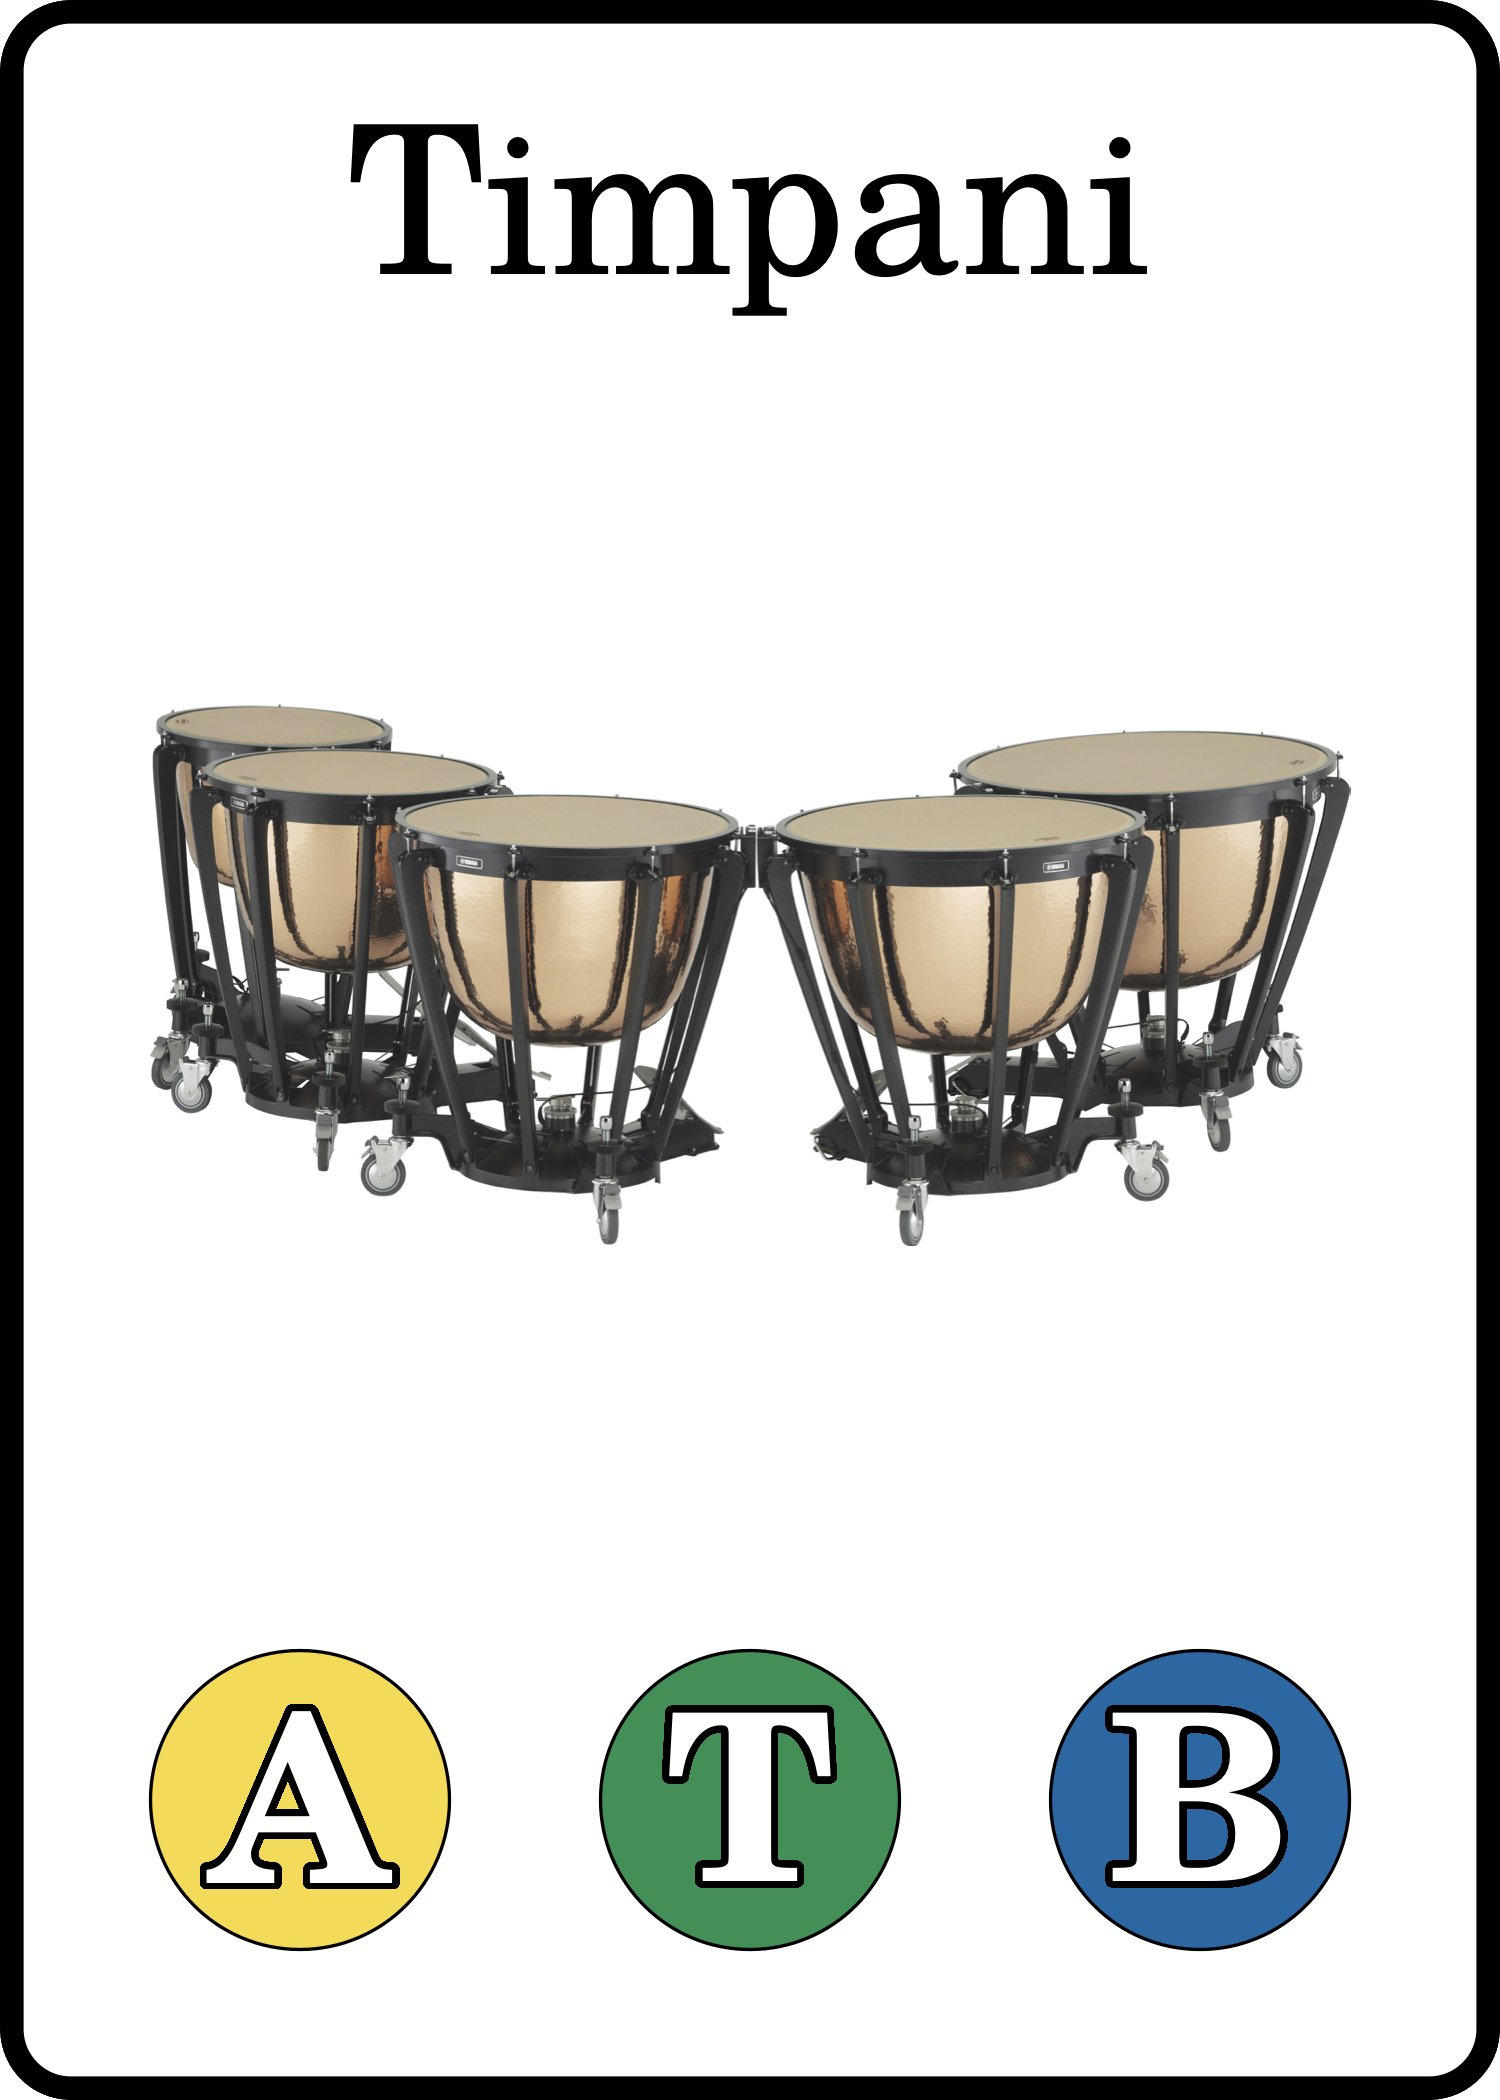
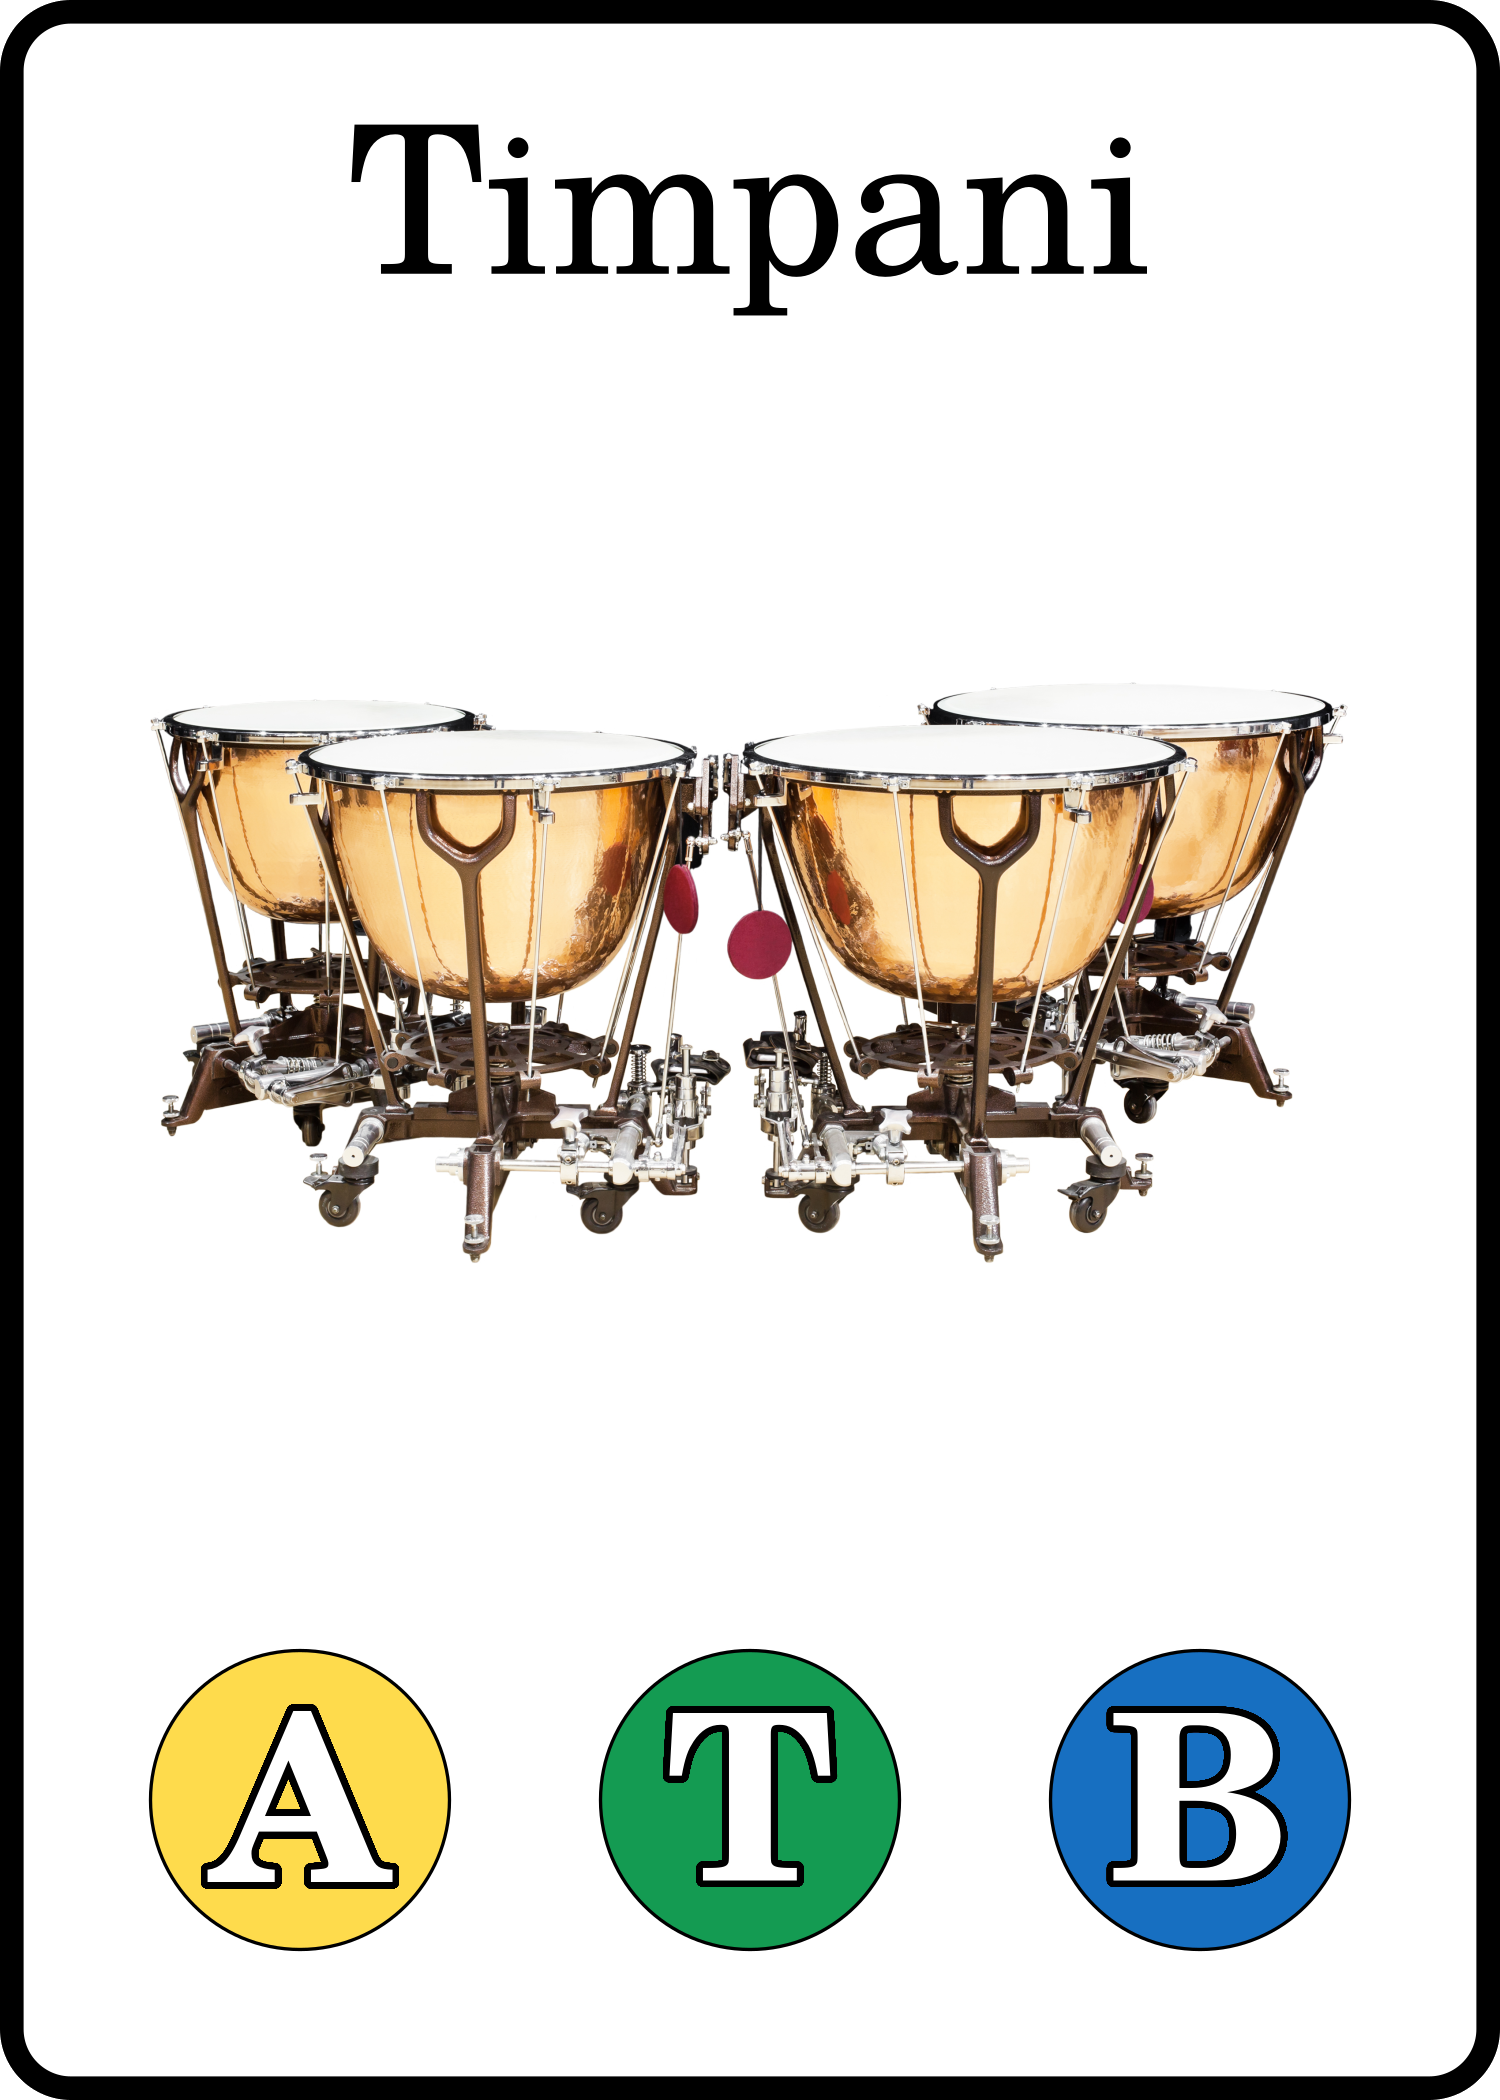
Updating files for BGG 54-card game contest.

Changed region(s): [[0.092, 0.3095, 0.92, 0.619], [0.7053, 0.7738, 0.92, 0.9286], [0.3987, 0.7738, 0.6133, 0.9286]]

diff --git a/test_piece_pages.tex b/test_piece_pages.tex
@@ -98,7 +98,7 @@
 \ClearShipoutPicture
 \enlargethispage{1.75\baselineskip}
 \section*{Overview}
-Test Piece is a two-player card-drafting game about British-style brass bands. It can be played in about thirty minutes and is intended for players who are at least twelve years old.
+Test Piece is a two-player card-drafting game about British-style brass bands. It can be played in about fifteen minutes and is intended for players who are at least twelve years old.
 
 During the game, you will assume the roles of rival music directors who are competing to build the best band from a limited pool of local musicians.
 
@@ -117,7 +117,7 @@ During the game, you will assume the roles of rival music directors who are comp
 \end{figure}
 
 \newpage
-\enlargethispage{1.75\baselineskip}
+\enlargethispage{2\baselineskip}
 
 \section*{Components}
 \begin{itemize}[leftmargin=4ex, nosep]
@@ -133,7 +133,7 @@ During the game, you will assume the roles of rival music directors who are comp
     \qquad
     \includegraphics[scale=0.04]{Images/CardImages/gold_display_back.png}
 \end{figure}
-  \item 8 pawns
+  \item 8 pawns (optional)
     \begin{figure}[h]
 	\centering    
     \includegraphics[scale=0.3]{Images/pawn_red.png}
@@ -147,7 +147,7 @@ During the game, you will assume the roles of rival music directors who are comp
     \includegraphics[scale=0.3]{Images/pawn_blue.png}
 
     \end{figure}
-  \item 2 score boards
+  \item 2 score boards (optional)
   \begin{figure}[h]
   \centering
   \includegraphics[width=\textwidth]{Images/score_board_diagram_thin_border.png}
@@ -163,17 +163,21 @@ During the game, you will assume the roles of rival music directors who are comp
   \item Shuffle each deck of instrument cards.
   \item Combine the two instrument decks by placing one on top of the other.
   \item Place the combined instrument decks face down to one side of the play area.
-  \item Place the score boards near the play area, one in front of each player.
-  \item Place a pawn on Measure 12 (the rightmost position) of each row on both score boards. 
   \item Randomly determine who will be Player A and who will be Player B.
+ \end{enumerate}
+ If you are using the pawns and score boards to track your scores, you should:
+\begin{enumerate}[leftmargin=4ex]
+  \setcounter{enumi}{5}
+  \item Place the score boards near the play area, one in front of each player.
+  \item Place a pawn on Measure 0 (the leftmost position) of each row on both score boards. 
 \end{enumerate}
 
-\vspace{0.25cm}
+%\vspace{0.25cm}
 
-\begin{figure}[h]
-\centering
-\includegraphics[width=7cm]{Images/wikipedia_trombone.jpg}
-\end{figure}
+%\begin{figure}[h]
+%\centering
+%\includegraphics[width=7cm]{Images/wikipedia_trombone.jpg}
+%\end{figure}
 
 
 \newpage
@@ -192,9 +196,9 @@ You will evaluate each performance for its merits in each of the four different 
 \caption*{The four voice symbols.}
 \end{figure}
 }
-The game ends at the end of the fourth round. Your \emph{overall score} is the minimum of your scores for the four voices.
+The game ends at the end of the fourth round. Your \emph{overall score} is the maximum of your scores for the four voices.
 
-The player with the highest overall score wins the game. In the case of a tie, you should compare your next lowest voice scores in to determine the winner. 
+The player with the lowest overall score wins the game. In the case of a tie, you should compare your next lowest voice scores to determine the winner. 
 
 \newpage
 \enlargethispage{1.75\baselineskip}
@@ -250,14 +254,14 @@ To score a performance:
 
 \item Compute the difference between each performance count and the \emph{target value} of 3. These are the \emph{errors}.
 
-\item Decrease your score for each voice by the size (absolute value) of its error.
+\item Increase your score for each voice by the size (absolute value) of its error.
 \end{enumerate}
 
 \vspace{0.5cm}
 
 \begin{figure}[h]
 \centering
-\includegraphics[width=7cm]{Images/yamaha_timpani.jpg}
+\includegraphics[width=7cm]{Images/shutterstock_timpani.jpg}
 \end{figure}
 
 \newpage

diff --git a/instrument_card.tex b/instrument_card.tex
@@ -5,6 +5,6 @@
 \begin{document}
 \begin{tikzpicture}
 \Huge
-\pic at (0,0) {instrumentcardfrontdisplay={bflatbass3}};
+\pic at (0,0) {instrumentcardfrontdisplay={timpani3}};
 \end{tikzpicture}
 \end{document}
